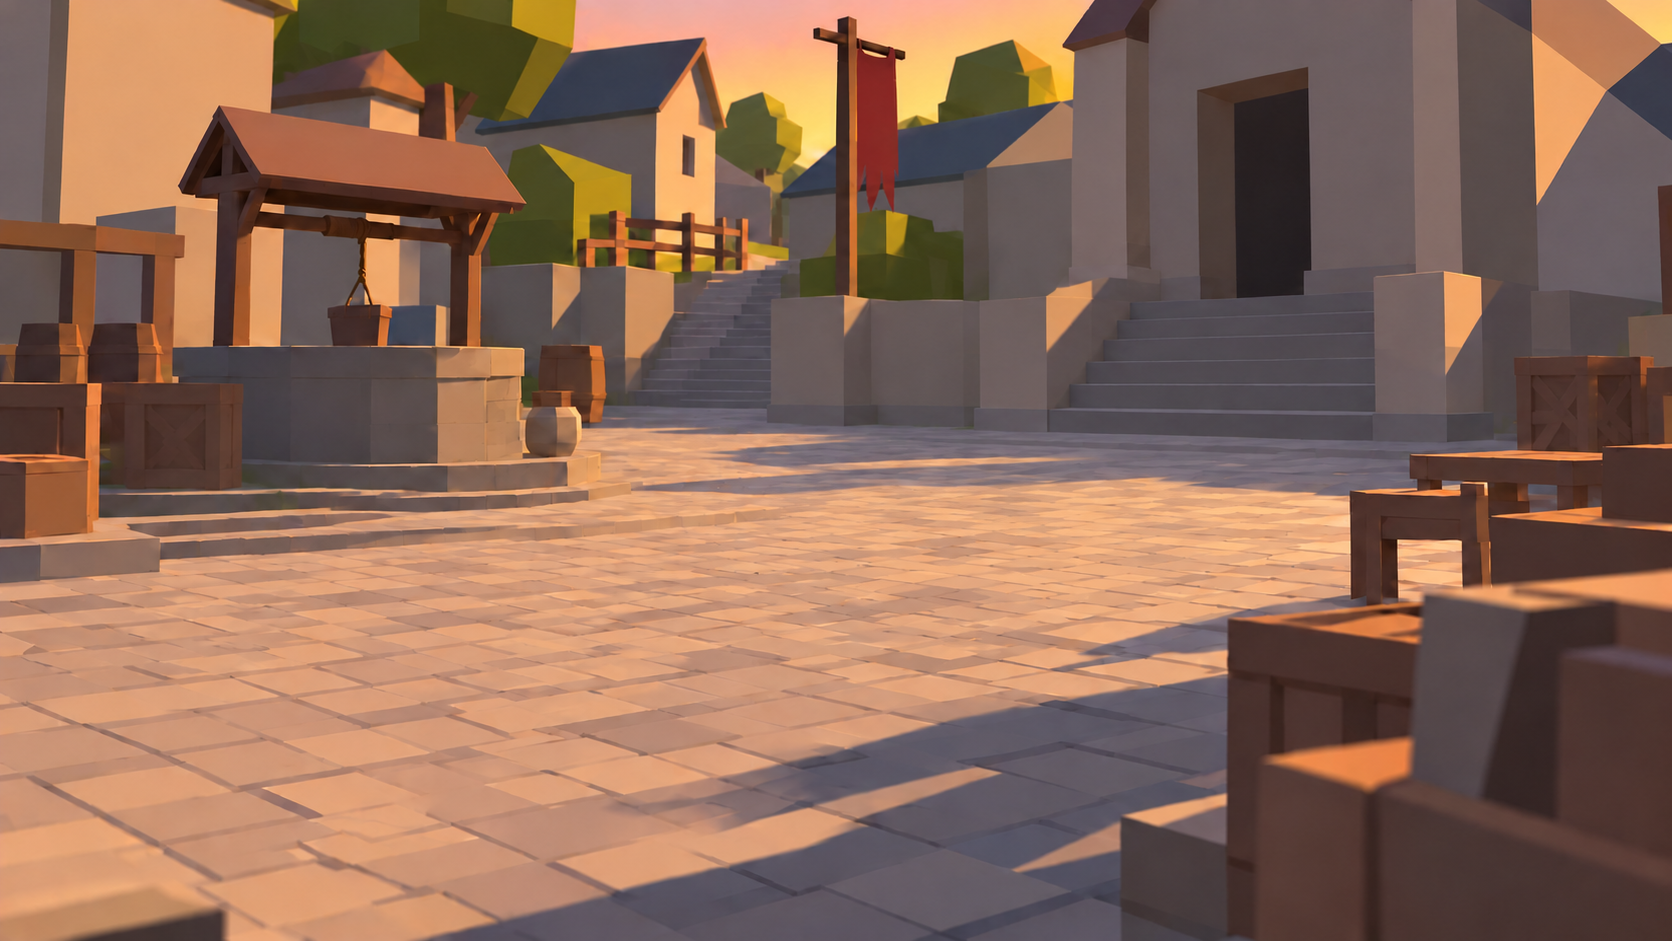
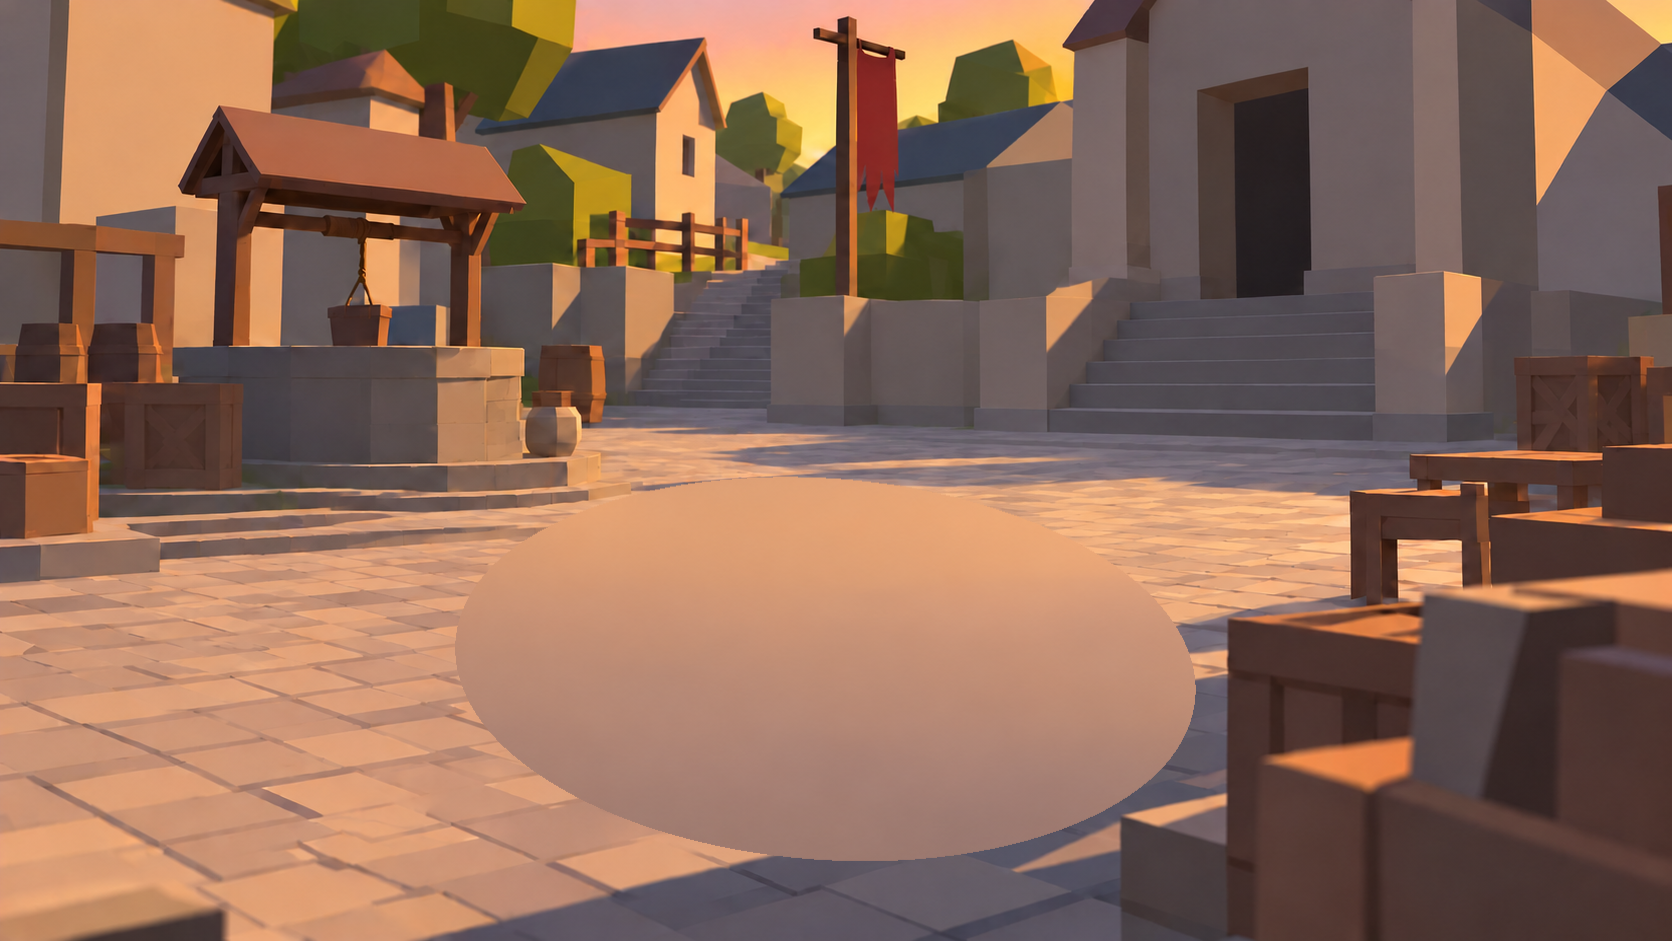
Remove painted paving from the arena background

Changed region(s): [[0.2488, 0.5239, 0.7153, 0.9245], [0.4043, 0.4931, 0.5287, 0.5547], [0.311, 0.5547, 0.4043, 0.5855]]

diff --git a/PLAN.md b/PLAN.md
@@ -10,7 +10,7 @@ The project already has a player controller and earlier gameplay code. The visua
 
 - Use the central paving around both duel participants as the arena. An invisible 3D collision boundary keeps combatants out of the well, stairs, buildings, and foreground props.
 - Use a fixed camera so the static plate and 3D floor remain aligned. The player can move inside the ring but cannot rotate the view.
-- Use a clean static village plate behind the 3D arena, with the magic in an independent transparent layer. Show the opponent with the existing transparent art on a camera-aligned 3D sprite, ready for later animation. The floor has its own UV color; only its rim blends into the fixed plate to hide the seam.
+- Use a clean static village plate with a neutralized arena center behind the 3D floor, with the magic in an independent transparent layer. Show the opponent with the existing transparent art on a camera-aligned 3D sprite, ready for later animation. The floor has its own UV color and camera-matched rim texture; it does not sample the background plate.
 - Use a transparent illustrated protagonist for the fixed camera. Keep the experimental 3D model in the earlier playable scene until a matching animated asset is produced.
 - Keep UI out of the comparison frame until the protagonist and walking space match the reference.
 
@@ -19,7 +19,7 @@ The project already has a player controller and earlier gameplay code. The visua
 | Priority | Deliverable | Minimum production approach |
 | --- | --- | --- |
 | Done | Cleaned background plate | Image edit of the annotated reference; removes the drawn oval, red note, HUD, and foreground protagonist. Saved as `game/art/village_backdrop.png`. |
-| Done | Clean duel plate and static opponent | `game/art/village_duel_clean.png` has no combat magic or character. `game/art/opponent_static.png` remains a separate 3D pose. The earlier plate with baked magic remains only as a reference asset. |
+| Done | Clean duel plate and static opponent | `game/art/village_duel_clean.png` has no combat magic or character, and its replaceable arena center contains only a smooth neutral base. `game/art/arena_paving_rim.png` belongs to the floor and preserves its boundary transition independently of the plate. `game/art/opponent_static.png` remains a separate 3D pose. The earlier plate with baked magic remains only as a reference asset. |
 | In review | Independent static magic | `game/art/duel_magic_layer.png` holds the effect on transparency. Three separately controlled shader passes draw atmosphere, opaque fragments with papers, and cool energy. The [composed](docs/visual-progress/arena-layers-composed.png) and [clean](docs/visual-progress/arena-layers-clean.png) captures show that all magic can be removed without exposing painted effects in the floor or village. The masks are approximate and are not yet independent motion assets. |
 | Done | Duel arena and boundary | `game/art/arena_paving.glb` covers the duel floor with fixed-view paving color. An invisible 3D collision ring contains the protagonist and future 3D combatants. |
 | In review | Protagonist | The approved raised-hand pose remains the rear idle view. Matching front and side poses and two strides per direction appear in the [idle capture](docs/visual-progress/protagonist-motion-idle.png) and [walk capture](docs/visual-progress/protagonist-motion-walk.png). The earlier 3D model remains in the playable prototype. |
@@ -28,7 +28,7 @@ The project already has a player controller and earlier gameplay code. The visua
 
 The completed arena rows describe a functional visual baseline, not final asset approval. Before gameplay mechanics, produce and visually review these remaining assets in order:
 
-1. **Shaded 3D paving (in review).** The arena uses shallow 3D relief, a sharp UV color texture derived from the clean duel plate, and restrained scene-light contribution. The UV floor now supplies the central color; only its rim fades into the static village. The [clean capture](docs/visual-progress/arena-layers-clean.png) shows no baked magic under the floor. The source plate still contains paving pixels beneath the 3D mesh, so the central floor is visually replaced but is not yet removed from the background asset as requested in [#13](https://github.com/viniciuspassos/rpg/issues/13). The depth is also subtle; both gaps need a separate visual refinement before accepting this gate.
+1. **Shaded 3D paving (in review).** The arena uses shallow 3D relief, a sharp UV color texture derived from the clean duel plate, and restrained scene-light contribution. The UV floor supplies the central color and blends into its own camera-matched rim texture. [#13](https://github.com/viniciuspassos/rpg/issues/13) is visually accepted: the background asset's replaceable center is neutralized, as shown with the [floor hidden](docs/visual-progress/arena-floor-free-hidden.png). The [clean](docs/visual-progress/arena-floor-free-clean.png) and [composed spawn](docs/visual-progress/arena-floor-free-spawn.png) captures preserve the village composition without new seams or duplicate joints/shadows. Floor depth remains subtle and belongs to [#14](https://github.com/viniciuspassos/rpg/issues/14).
 2. **Arena-edge details (in review).** A small GLB now places faceted stones, broken timber, and a wooden bucket on empty painted paving beyond the left arena boundary. Existing static foreground props cover the right side, so a candidate right-hand cluster was removed after it appeared in front of a painted crate. The [spawn capture](docs/visual-progress/arena-edge-spawn.png) and [left-limit capture](docs/visual-progress/arena-edge-left.png) show no duplicate object or hidden combatant. A real-input route still reached the center and both barriers; the new details have no collision and do not narrow it. Review their scale and color before accepting this visual gate.
 3. **Independent magic assets (in review).** The clean plate and UV floor have no painted effect. Three shader passes from one transparent source now control warm atmosphere, opaque fragments with papers, and cool energy separately; the energy is less saturated in the fixed-view composite. Isolated captures show that the masks still mix some dust with fragments and retain blue haze around the energy. Produce cleaner separate glow, dust, paper, and debris assets to meet [#16](https://github.com/viniciuspassos/rpg/issues/16) before independent motion. Gate: the effect reads at spawn and across the arena without duplicate baked elements or loss of character visibility. This is visual asset work, not ability gameplay.
 4. **Two-combatant presentation pack.** Choose one consistent illustrated-sprite or stylized-3D approach for the protagonist and opponent. Complete the poses and supporting assets needed for readable idle, movement, attack, impact, and Power presentation, replacing the opponent's single fixed pose. Gate: both silhouettes remain clear at close range, hold their ground contact, and match the reference across the walkable area. No villagers, visitor, or companion assets belong to this scene.
@@ -61,6 +61,16 @@ This validates startup and the current composite, not the final protagonist mode
 Godot references: [renderer features](https://docs.godotengine.org/en/4.7/tutorials/rendering/renderers.html), [environment and post-processing](https://docs.godotengine.org/en/4.7/tutorials/3d/environment_and_post_processing.html), [3D scene import](https://docs.godotengine.org/en/4.7/tutorials/assets_pipeline/importing_3d_scenes/available_formats.html).
 
 ## Incremental visual record
+
+### Floor-free plate acceptance (#13)
+
+The selected plate neutralizes only the projected arena interior with a smooth warm base; paving outside the replaceable area remains part of the village. The well, stairs, buildings, sky, props, lighting, and fixed camera are unchanged. All source pixels outside the floor projection were verified identical to the previous plate. The floor-owned `arena_paving_rim.png` retains the original camera-matched paving only around the mesh footprint, on transparency, so no background texture is sampled by the floor shader. The mesh, UV albedo, collision bounds, characters, and magic assets are unchanged.
+
+Godot 4.7.2 Compatibility captures at 1280×720 show the [neutral center with floor, effects, and actors hidden](docs/visual-progress/arena-floor-free-hidden.png), [restored floor without magic](docs/visual-progress/arena-floor-free-clean.png), and [composed spawn](docs/visual-progress/arena-floor-free-spawn.png). A same-run before/after spawn comparison produced zero differing pixels. Four movement-input routes reached the [left](docs/visual-progress/arena-floor-free-left.png), [right](docs/visual-progress/arena-floor-free-right.png), [far](docs/visual-progress/arena-floor-free-far.png), and [near](docs/visual-progress/arena-floor-free-near.png) barriers without exposing the neutral center, a seam, or a changed village silhouette. The visual-presentation integration test and arena collision test passed. The plate separation is accepted; floor relief (#14), edge props (#15), effect separation (#16), protagonist contact/poses (#21), and opponent pose (#22) retain their existing review status. No frame-rate benchmark was performed; this change adds one rim texture and no new draw pass.
+
+Production used the built-in image generation edit tool, then restricted its neutral ground to the inset mesh projection so the surrounding original pixels remain exact. No third-party asset was added. Local generation inputs, masks, and capture scripts remain unversioned under `source_assets/`. Final edit prompt:
+
+> Use case: precise-object-edit. Edit target: the supplied clean static village background for a fixed-camera game. Remove ALL detailed paving stones, tile joints, cracks, and cast prop shadows from the open ground below the well and the stairs, throughout the broad central and lower plaza. Replace that ground with a completely smooth neutral warm tan base, a very subtle broad lighting gradient only, with absolutely no lines, stone patterns, texture, pebbles, or objects. This is a neutralized background under an independent 3D arena floor, not a new dirt terrain design. Preserve the exact composition, camera, well, its stone steps and base, buildings, sky, stairs, crates, barrels, foreground props, architecture, color and light. No characters, magic, dust, papers, debris, writing or new objects. Keep the image framing and dimensions. The smooth ground should cover the open plaza all the way to its foreground edges; preserve prop silhouettes.
 
 Compare each object in the running game from the same camera view before moving to the next. The earlier [paving](docs/visual-progress/paving.png), [covered well](docs/visual-progress/well.png), and [composition](docs/visual-progress/composition.png) captures document the discarded full-3D approach. The [ring capture](docs/visual-progress/arena.png) records the earlier capsule view. The [model review](docs/visual-progress/protagonist-model.png) and [earlier playable capture](docs/visual-progress/protagonist-mvp.png) record the 3D prototype. The [illustrated candidate](docs/visual-progress/protagonist-illustrated-review.png) records the chosen direction. The [idle](docs/visual-progress/protagonist-motion-idle.png), [walking](docs/visual-progress/protagonist-motion-walk.png), and [four-direction motion](docs/visual-progress/protagonist-motion-review.mp4) captures document the protagonist pass. The [duel capture](docs/visual-progress/duel-scene-review.png) records the earlier left staging area; the [arena capture](docs/visual-progress/arena-barrier-review.png) and [movement capture](docs/visual-progress/arena-movement-review.png) record the enlarged 3D duel space. The opponent remains a static pose, so close overlap and combat reactions still need a later visual pass.
 
